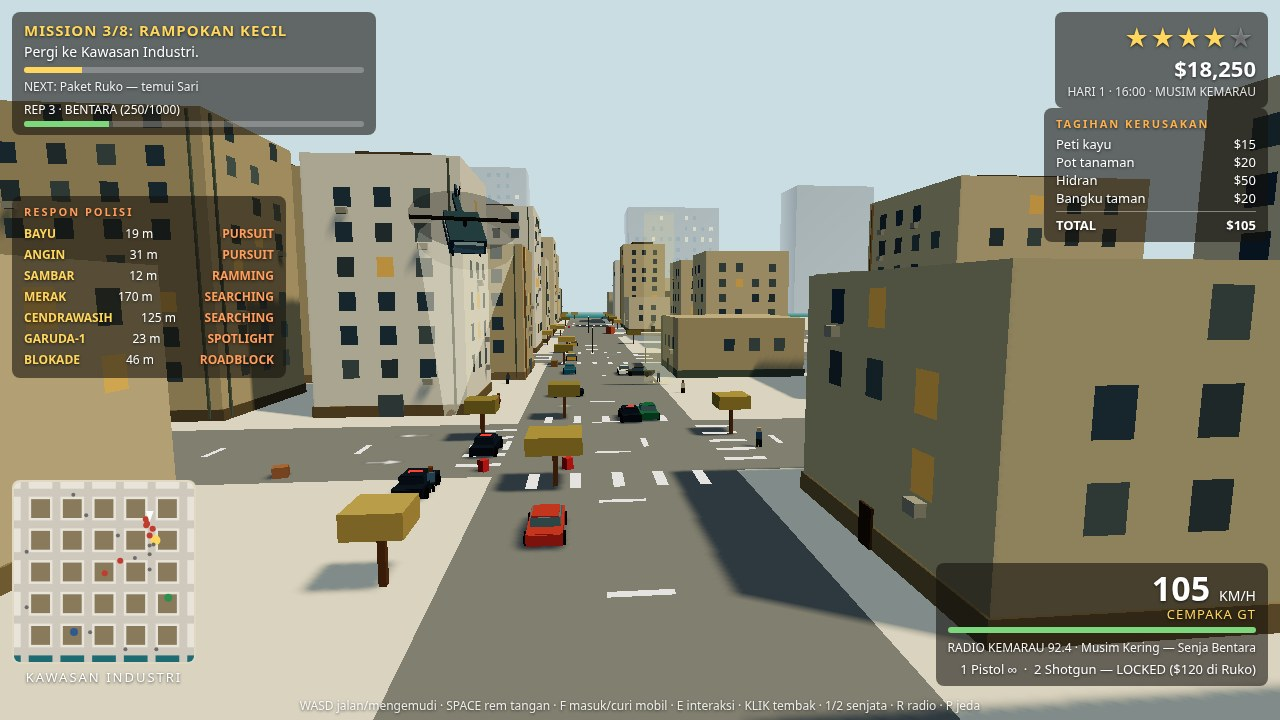
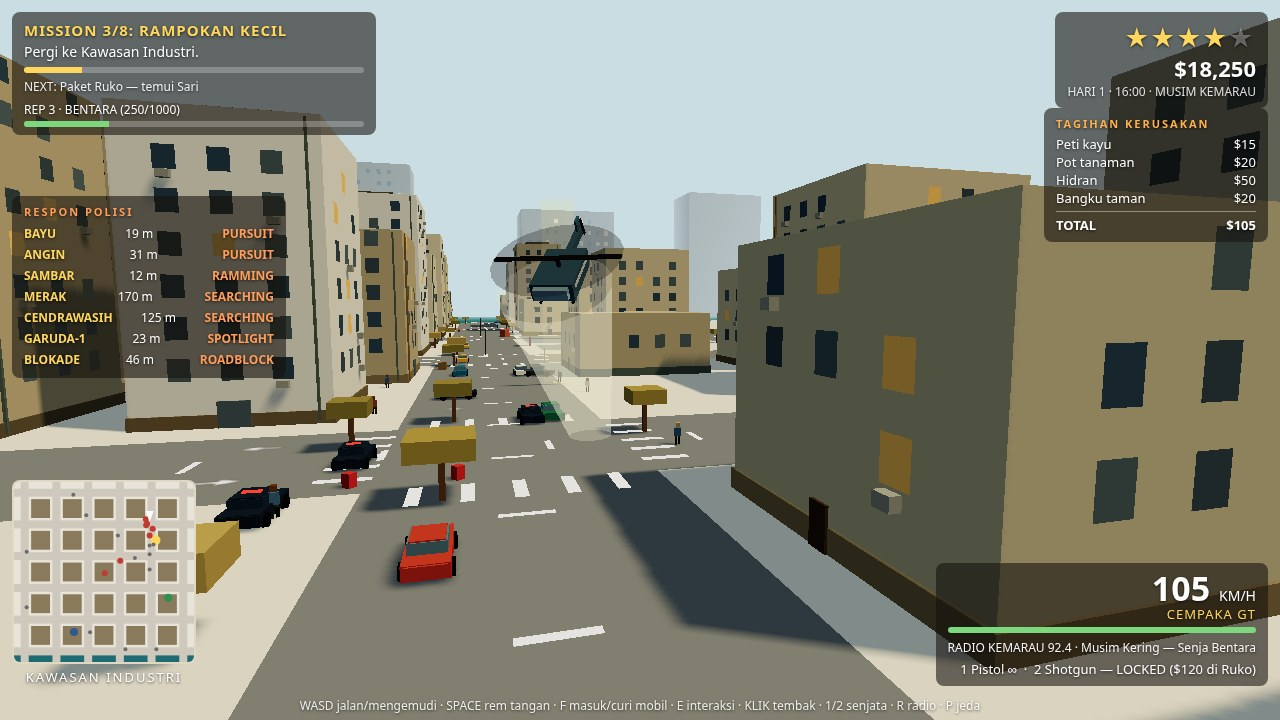
BENTARA camera/staging polish (v1.5): cover car bottom-left, heli prominent over the road, story foreground filled

diff --git a/game/src/shots.js b/game/src/shots.js
@@ -8,7 +8,8 @@
 //   Staged AT the Kawasan Industri intersection (x = 111 arterial, z = 111):
 //   the chase runs SOUTH down the arterial and ends on the junction, camera
 //   centred over the road so no single facade can fill a third of the frame.
-//   Player car foreground bottom-left, helicopter prominent ahead-left.
+//   Player car foreground bottom-left, helicopter prominent over the road
+//   ahead of the player.
 // 2-drive: arterial at 26 m/s, 14 traffic cars, 1 star, mission HUD live.
 // 3-foot: on foot at Plaza Menara, pistol out, peds fleeing a real shot.
 // 4-story: marina, Pak Wira facing the player, his line in the dialogue box.
@@ -194,17 +195,29 @@ export function stageShot(name, game, atSeconds) {
         }
       }
     }
-    // Hero camera: 3/4 view, ~13 m up and ~32 m back from the player,
-    // looking south down the arterial with a slight eastward swing, so the
-    // player car sits foreground bottom-left, the helicopter hangs
-    // prominent ahead-left, and the junction fills the middle of the frame.
-    // High and close enough that the sightline to the player clears the
-    // intersection tree (v1.4 take 1 hid the car behind its crown).
+    // Helicopter staging (v1.5): the live hover sits ahead-left of the
+    // player, so from the chase camera it lands against the west facades
+    // as a dark blob, not a helicopter. Pull it over the road itself,
+    // closer and lower, nose on the player, so it reads as a helicopter
+    // with its spotlight beam on the player — big, lit, and in the open
+    // sky above the road instead of half-hidden against a building.
+    const heli = G.police.heli;
+    if (heli) {
+      heli.group.position.set(G.player.x + 8, 13, G.player.z - 16);
+      heli.group.lookAt(G.player.x, 0, G.player.z);
+    }
+    // Hero camera (v1.5): 3/4 view, ~11 m up and ~26 m back from the player,
+    // looking south-east down the arterial. The eastward swing puts the
+    // view axis well east of the player car, so the car projects into the
+    // lower-left quadrant just above and right of the minimap instead of
+    // dead centre — the foreground hero, bottom-left — while the heli sits
+    // upper-centre over the road and the junction fills the middle of the
+    // frame. Closer and lower than v1.4, so the car reads bigger too.
     // Render directly: G.draw() would reset the camera to the chase cam.
     G.setShotInput({ active: false });
     const cam = G.view.camera;
-    cam.position.set(G.player.x + 2, 13, G.player.z + 32);
-    cam.lookAt(G.player.x + 12, 2, G.player.z - 70);
+    cam.position.set(G.player.x + 2, 11, G.player.z + 26);
+    cam.lookAt(G.player.x + 26, 2.5, G.player.z - 60);
     G.view.render();
     window.__shotReady = true;
     return { name, seconds, steps };
@@ -241,17 +254,45 @@ export function stageShot(name, game, atSeconds) {
     G.hud.toast('BENTARA: DRY SEASON — 8 misi, 3 babak. Temui Pak Wira.', 600);
     G.draw();
     for (let i = 0; i < steps; i += 1) G.step(STEP);
+    // Foreground fill (v1.5): the wide angle left the bottom half as bare
+    // beige promenade. Pull four street props and four pedestrians into the
+    // near band between the camera and the player — crates, benches and
+    // planters the player walks past, plus people crossing — so the bottom
+    // of the frame is promenade life, not empty ground. They are staged
+    // after the sim steps, so their final positions are exactly the ones
+    // in the frame. None of them sits on the camera-to-Wira sightline, so
+    // Wira, the player and the MARINA sign stay clear.
+    const fgProps = [[-13, -161], [-6, -160], [-16, -164], [-10, -163]];
+    let placed = 0;
+    for (const prop of G.props.props) {
+      if (placed >= fgProps.length || prop.broken) continue;
+      const s = fgProps[placed];
+      prop.x = s[0];
+      prop.z = s[1];
+      prop.mesh.position.x = s[0];
+      prop.mesh.position.z = s[1];
+      placed += 1;
+    }
+    const fgPeds = [
+      [-14, -160.5, -2, -161], [-9, -159.5, -14, -162],
+      [-4, -162, -12, -159], [-15, -163, -8, -161],
+    ];
+    G.peds.peds.slice(0, fgPeds.length).forEach((p, k) => {
+      const s = fgPeds[k];
+      p.setPos(s[0], s[1]);
+      p.target = { x: s[2], z: s[3] };
+    });
     // Close, low camera: the player fills the foreground with his back to
     // us, Wira stands just beyond him, and the MARINA sign (on its posts
     // now), the water, the boats and the windowed skyline sit behind them.
-    // The wide v1.3 angle left the bottom half empty beige ground; this one
-    // keeps the promenade, the pier and the road in frame. Shot from the
-    // west so no building wall crosses the view, and far enough west that
-    // the player does not line up behind the sign's east post. (A closer
-    // camera clipped the MARINA sign out of the top of the frame, so the
-    // camera stays here.)
+    // A touch closer and lower than v1.4, so the player is a bigger
+    // foreground figure and the staged props read at the bottom of the
+    // frame. Shot from the west so no building wall crosses the view, and
+    // far enough west that the player does not line up behind the sign's
+    // east post. (A closer camera clipped the MARINA sign out of the top
+    // of the frame, so the camera stays here.)
     const cam = G.view.camera;
-    cam.position.set(-19, 3.6, -157);
+    cam.position.set(-18, 3.4, -158.5);
     cam.lookAt(-6, 1.3, -170);
     G.view.render();
     window.__shotReady = true;
